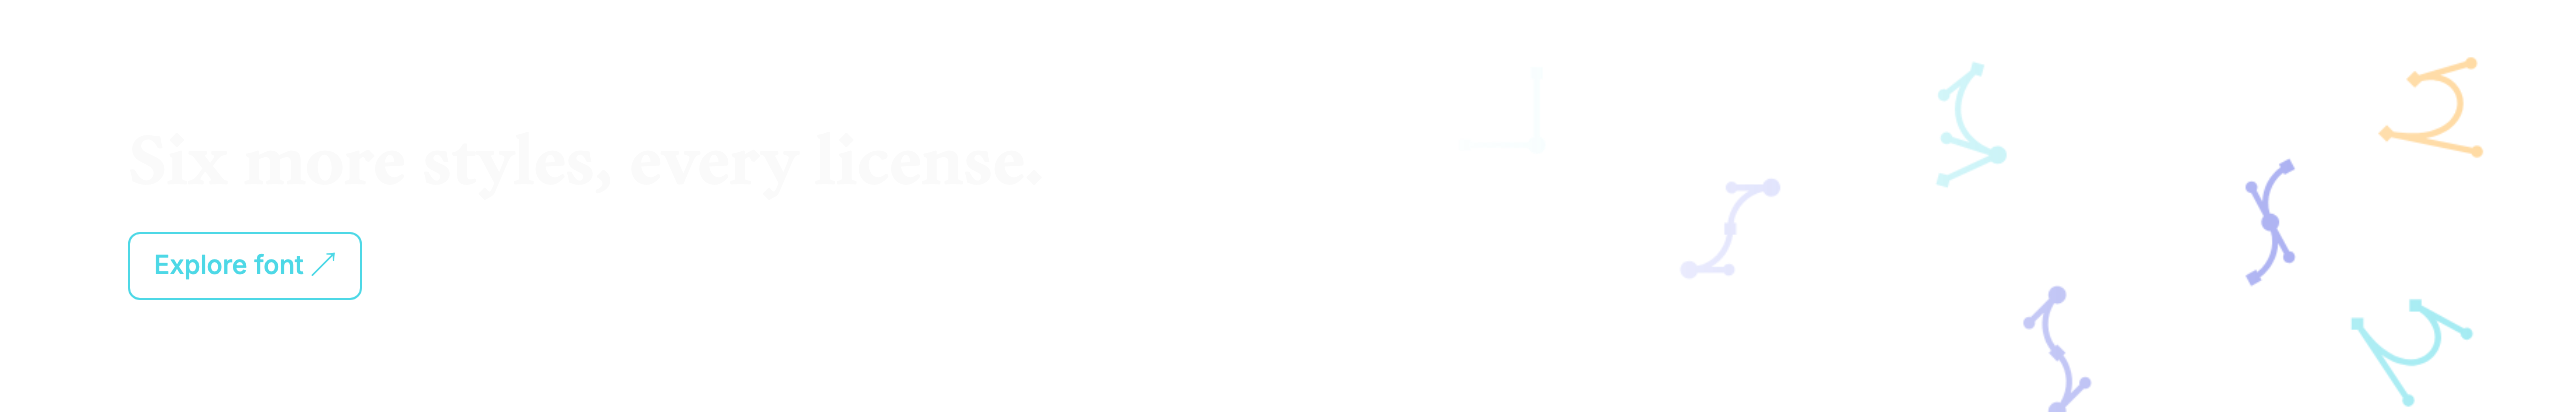
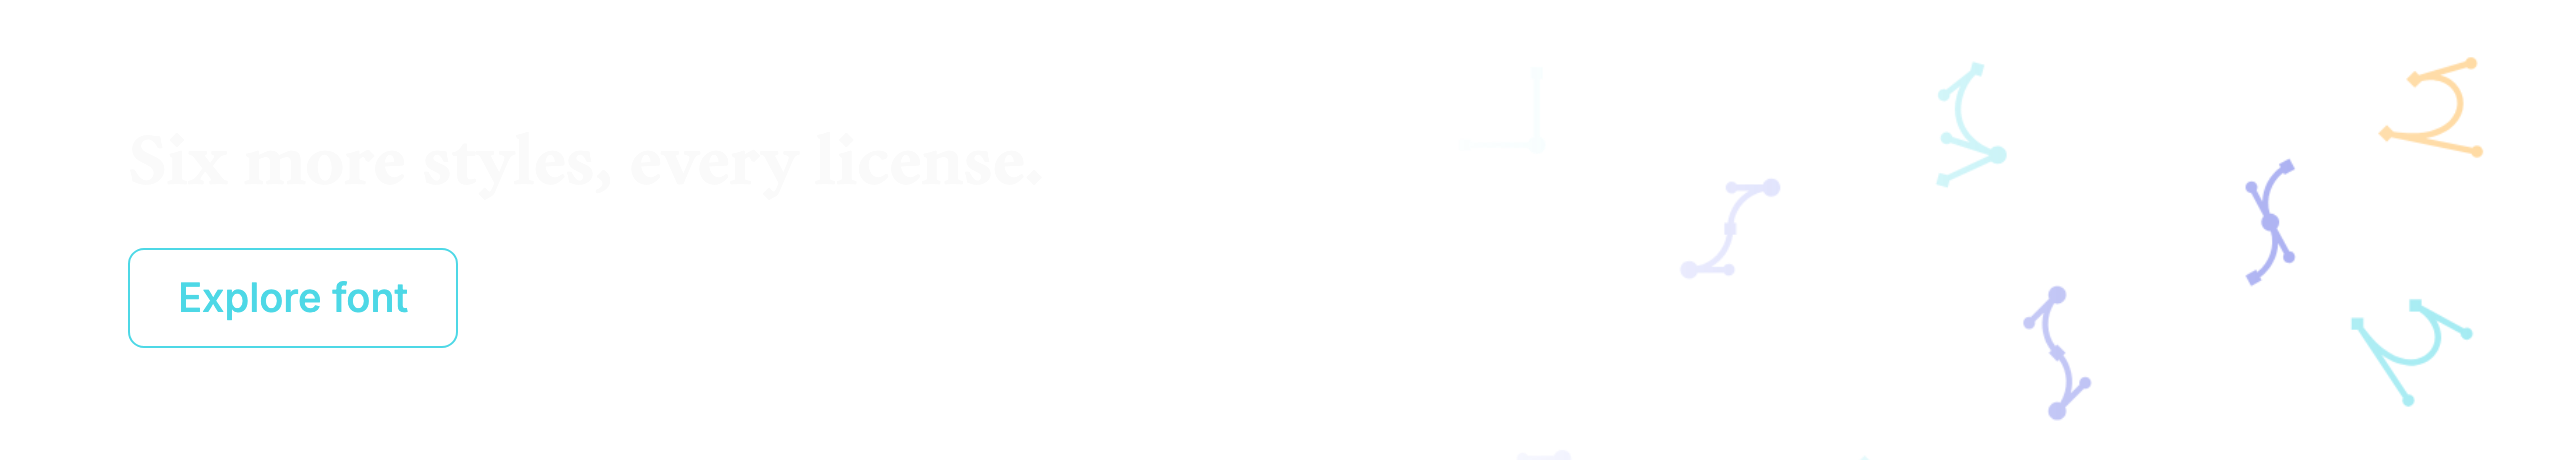
docs: drop the store-claim line and enlarge the explore button

diff --git a/README.md b/README.md
@@ -56,7 +56,7 @@ Copy `fonts/woff2/` into your site, then:
 
 ## License
 
-Free to use, not open source: Desktop and Web at the first tier are free, while higher tiers and App, Advertising, Broadcasting and OEM use are licensed at [hippopotype.com](https://hippopotype.com/fonts/fragment-serif), and the files may not be modified or passed on. The full terms are in [LICENSE.md](LICENSE.md), the same terms as [hippopotype.com/licensing](https://hippopotype.com/licensing). Claiming the styles in the store is optional; it adds a receipt and keeps the downloads in your account.
+Free to use, not open source: Desktop and Web at the first tier are free, while higher tiers and App, Advertising, Broadcasting and OEM use are licensed at [hippopotype.com](https://hippopotype.com/fonts/fragment-serif), and the files may not be modified or passed on. The full terms are in [LICENSE.md](LICENSE.md), the same terms as [hippopotype.com/licensing](https://hippopotype.com/licensing).
 
 The font files don't take pull requests, but issues about them are welcome.
 
